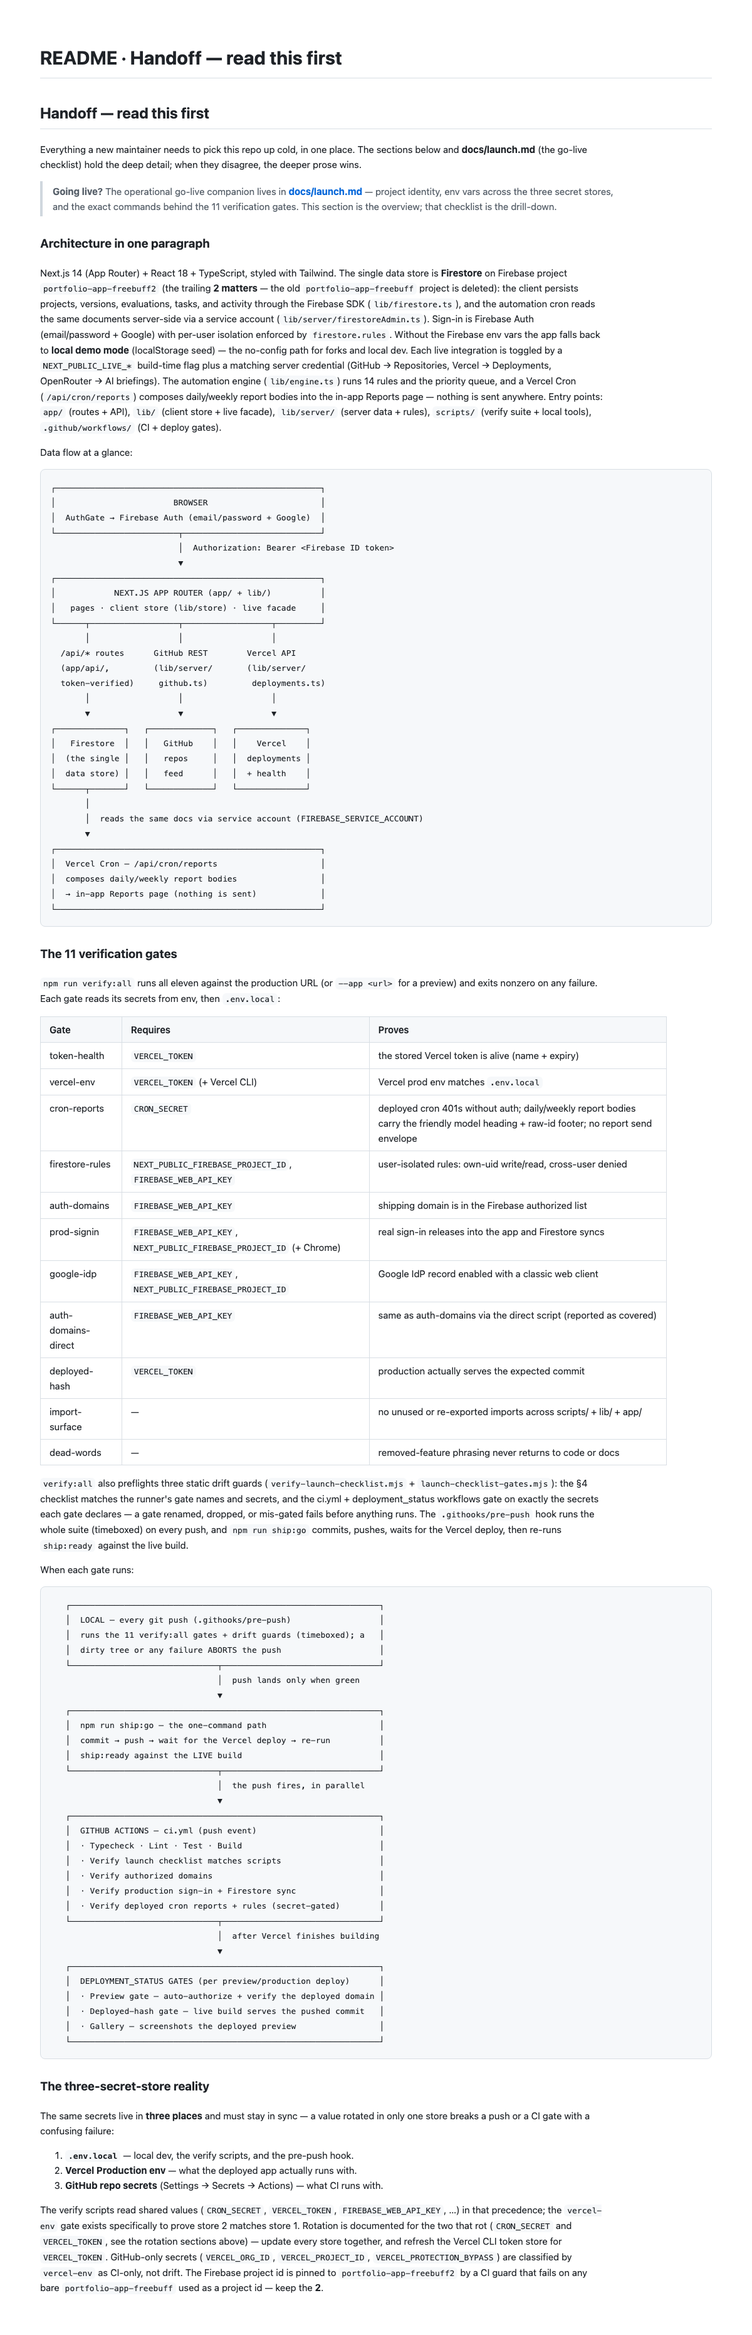
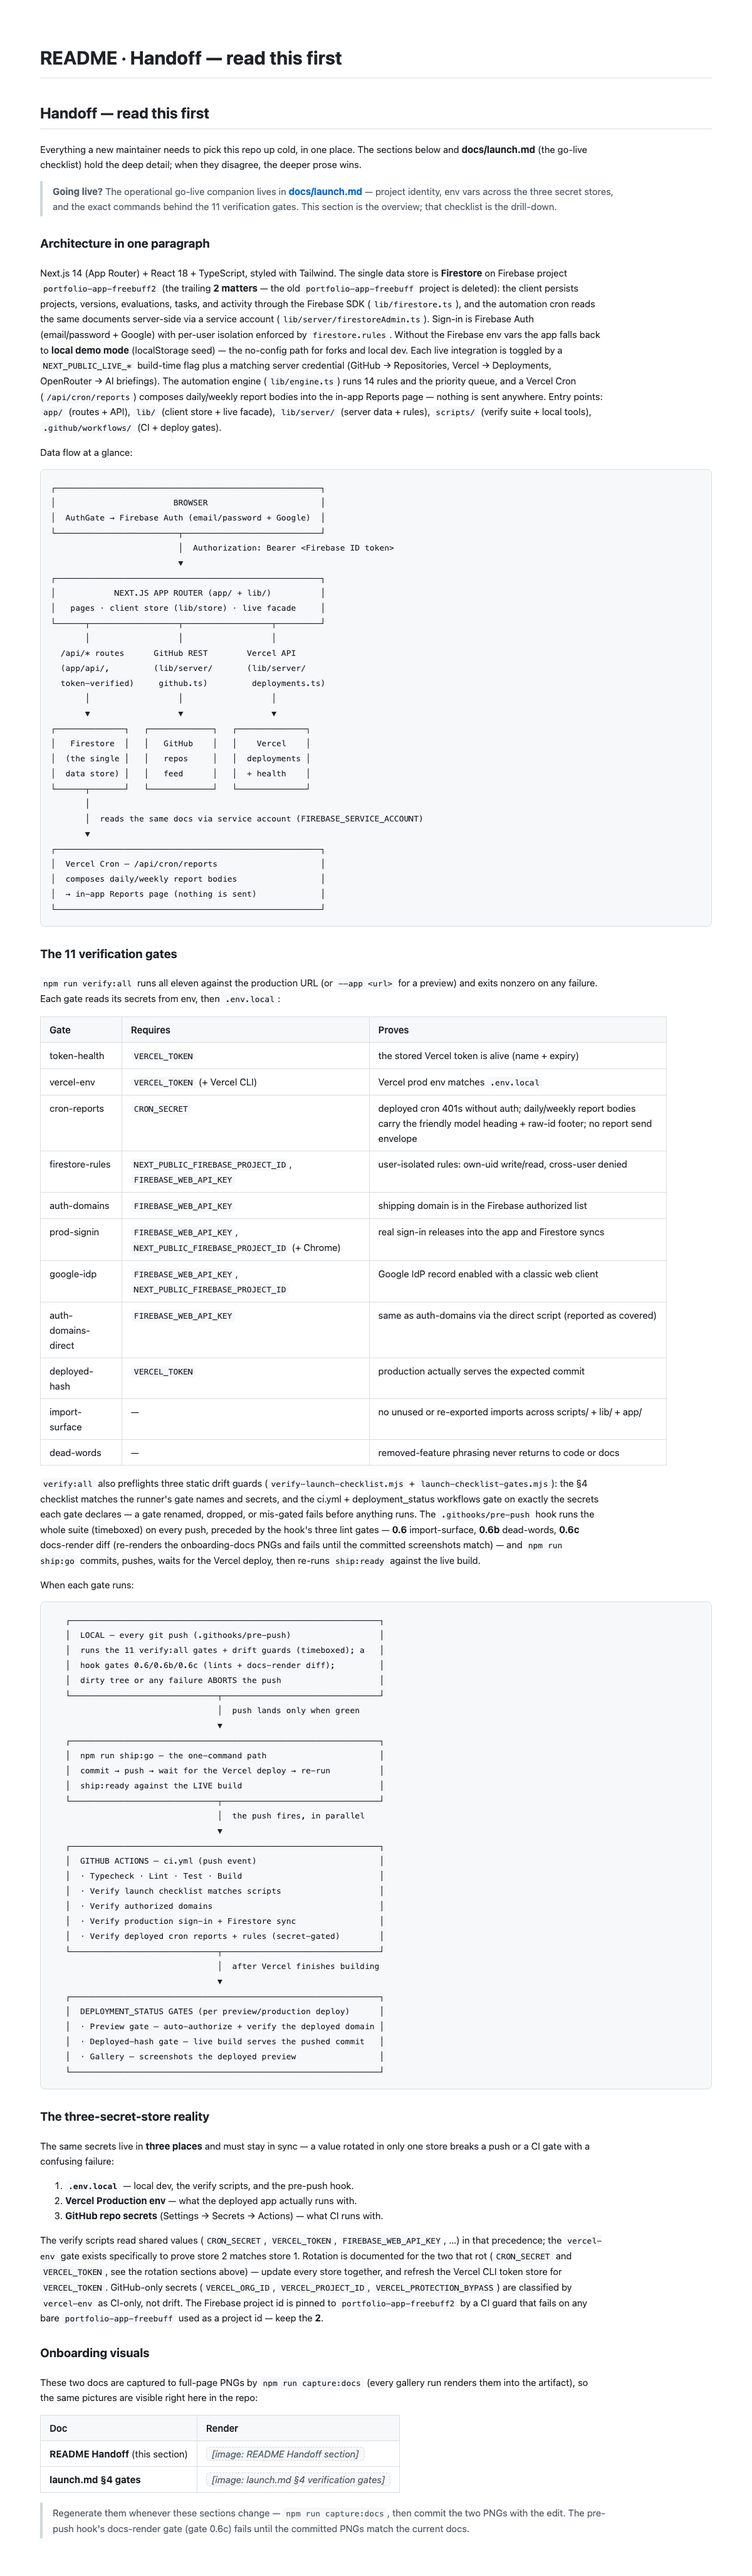
docs(onboarding): inventory hook gate 0.6c and embed the docs PNGs
Names the three pre-push hook lint gates (0.6 import-surface, 0.6b
dead-words, 0.6c docs-render diff) in the README handoff prose, the shared
When-each-gate-runs pipeline diagram (identical across README and
docs/launch.md), and the launch.md capstone paragraph. Adds an Onboarding
visuals table embedding the two captured docs PNGs via relative links, and
teaches the markdown renderer to emit image references as clean spans (not
inlined bytes, which would compound across regenerations and break the
--check byte-diff gate). Re-captures both PNGs to match the new sections.

Generated with Codebuff 🤖

Changed region(s): [[0.0617, 0.0, 0.8325, 0.9968], [0.3083, 0.0, 0.4625, 0.0311]]

diff --git a/scripts/markdown-html.test.ts b/scripts/markdown-html.test.ts
@@ -32,6 +32,28 @@ describe('renderInline (escaped input)', () => {
       '<strong>run <code>npm run x</code></strong>',
     );
   });
+
+  it('renders image references as a clean span, not a stray ! + link', () => {
+    // The capture renders into a data: URL page where a relative src cannot
+    // resolve, and inlining bytes would compound across regenerations — so an
+    // image reference becomes the alt text as a styled span with an [image:]
+    // prefix, and the leading `!` must not leak out or turn the path into a
+    // clickable link.
+    expect(renderInline('![README Handoff](screenshots/docs-handoff.png)')).toBe(
+      '<span class="doc-img">[image: README Handoff]</span>',
+    );
+    expect(renderInline('plain ![alt](x.png) text')).toBe(
+      'plain <span class="doc-img">[image: alt]</span> text',
+    );
+  });
+
+  it('keeps image syntax inside code spans atomic', () => {
+    // A code span containing ![ ]( ) must stay one <code> element; the image
+    // pattern runs on placeholders and can never reach inside.
+    expect(renderInline('`![not an image](x.png)`')).toBe(
+      '<code>![not an image](x.png)</code>',
+    );
+  });
 });
 
 describe('renderMarkdown (block constructs)', () => {
@@ -134,6 +156,10 @@ describe('extractSection', () => {
     expect(section).toContain('## Handoff — read this first');
     expect(section).toContain('### The 11 verification gates');
     expect(section).toContain('When each gate runs:');
+    // Both docs-PNG embeds must stay inside the Handoff section (before the
+    // Screenshots section) — a future edit dropping either embed fails here.
+    expect(section).toContain('screenshots/docs-handoff.png');
+    expect(section).toContain('screenshots/docs-launch-gates.png');
     expect(section).not.toContain('## Screenshots');
   });
 

diff --git a/README.md b/README.md
@@ -120,9 +120,12 @@ reads its secrets from env, then `.env.local`:
 checklist matches the runner's gate names and secrets, and the ci.yml +
 deployment_status workflows gate on exactly the secrets each gate declares —
 a gate renamed, dropped, or mis-gated fails before anything runs. The
-`.githooks/pre-push` hook runs the whole suite (timeboxed) on every push, and
-`npm run ship:go` commits, pushes, waits for the Vercel deploy, then re-runs
-`ship:ready` against the live build.
+`.githooks/pre-push` hook runs the whole suite (timeboxed) on every push,
+preceded by the hook's three lint gates — **0.6** import-surface, **0.6b**
+dead-words, **0.6c** docs-render diff (re-renders the onboarding-docs PNGs
+and fails until the committed screenshots match) — and `npm run ship:go`
+commits, pushes, waits for the Vercel deploy, then re-runs `ship:ready`
+against the live build.
 
 When each gate runs:
 
@@ -130,6 +133,7 @@ When each gate runs:
    ┌───────────────────────────────────────────────────────────────┐
    │  LOCAL — every git push (.githooks/pre-push)                  │
    │  runs the 11 verify:all gates + drift guards (timeboxed); a   │
+   │  hook gates 0.6/0.6b/0.6c (lints + docs-render diff);         │
    │  dirty tree or any failure ABORTS the push                    │
    └──────────────────────────────┬────────────────────────────────┘
                                   │  push lands only when green
@@ -179,6 +183,21 @@ for `VERCEL_TOKEN`. GitHub-only secrets (`VERCEL_ORG_ID`, `VERCEL_PROJECT_ID`,
 drift. The Firebase project id is pinned to `portfolio-app-freebuff2` by a CI
 guard that fails on any bare `portfolio-app-freebuff` used as a project id —
 keep the **2**.
+
+### Onboarding visuals
+
+These two docs are captured to full-page PNGs by `npm run capture:docs`
+(every gallery run renders them into the artifact), so the same pictures are
+visible right here in the repo:
+
+| Doc | Render |
+| :--- | :---: |
+| **README Handoff** (this section) | ![README Handoff section](screenshots/docs-handoff.png) |
+| **launch.md §4 gates** | ![launch.md §4 verification gates](screenshots/docs-launch-gates.png) |
+
+> Regenerate them whenever these sections change — `npm run capture:docs`, then
+> commit the two PNGs with the edit. The pre-push hook's docs-render gate
+> (gate 0.6c) fails until the committed PNGs match the current docs.
 
 ## Screenshots
 

diff --git a/docs/launch.md b/docs/launch.md
@@ -129,6 +129,7 @@ When each gate runs (same picture as the README handoff section):
    ┌───────────────────────────────────────────────────────────────┐
    │  LOCAL — every git push (.githooks/pre-push)                  │
    │  runs the 11 verify:all gates + drift guards (timeboxed); a   │
+   │  hook gates 0.6/0.6b/0.6c (lints + docs-render diff);         │
    │  dirty tree or any failure ABORTS the push                    │
    └──────────────────────────────┬────────────────────────────────┘
                                   │  push lands only when green
@@ -215,7 +216,10 @@ the one-command checklist covers it too.
 
 **Final pre-push capstone:** the hook ends with the `ship:ready` verdict
 (`scripts/ship-ready.mjs`, 20-minute budget — the full `verify:all` suite far
-exceeds the 90s per-verifier timebox): after every individual gate passes, it
+exceeds the 90s per-verifier timebox). Before the capstone, the hook also
+runs its three lint gates — **0.6** import-surface, **0.6b** dead-words,
+**0.6c** docs-render diff (re-renders the onboarding-docs PNGs and fails
+until the committed screenshots match). After every individual gate passes, it
 asserts the working tree is clean (nothing staged, unstaged, or untracked — a
 dirty tree means the pushed commit cannot match the code you just ran) and
 runs the complete eleven-gate suite against production, printing a single
